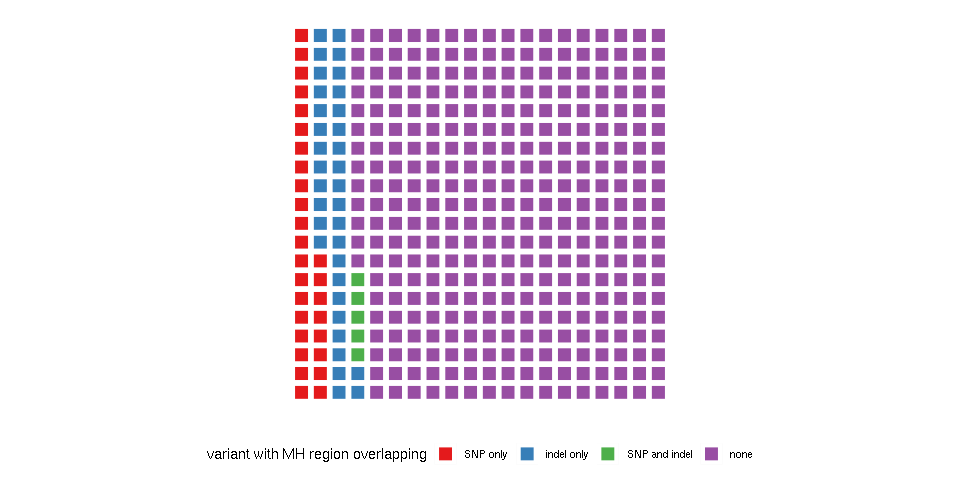
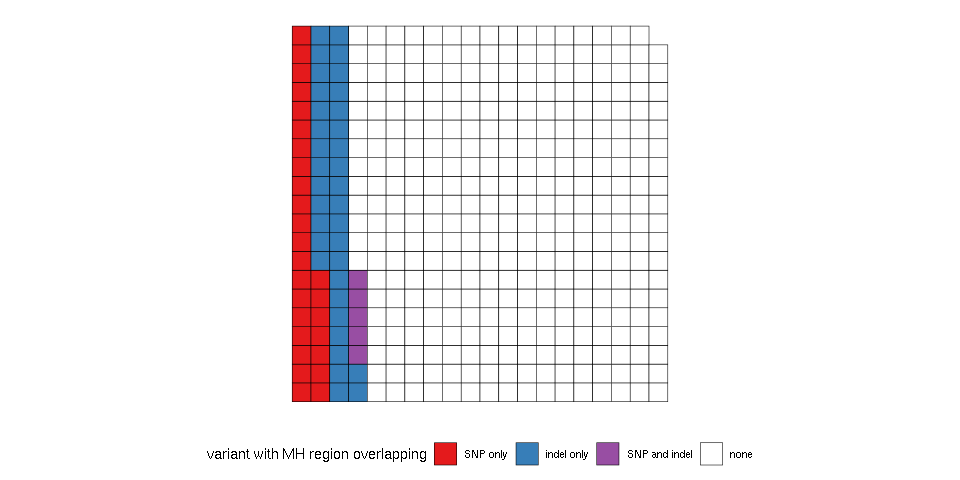
polish waffle graph

diff --git a/reports/SNPOverlap.md b/reports/SNPOverlap.md
@@ -11,6 +11,7 @@ library(knitr)
 
 library(ggplot2)
 library(ggwaffle)
+library(RColorBrewer)
 library(GenomicRanges)
 
 ## Read the first row (headers) to remind us the order of each column
@@ -70,7 +71,7 @@ snps = subset(snps, !(RS %in% paste0("rs", var.s$RS)))
 dim(snps)
 ```
 
-    ## [1] 15174509        6
+    ## [1] 15174553        6
 
 ``` r
 snps = makeGRangesFromDataFrame(snps, keep.extra.columns = TRUE)
@@ -96,10 +97,10 @@ fl.id %>% group_by(classf) %>% summarize(n = n()) %>% ungroup %>% mutate(prop = 
 
 | classf        |       prop|
 |:--------------|----------:|
-| SNP only      |  0.0699637|
-| indel only    |  0.0851986|
-| SNP and indel |  0.0129693|
-| none          |  0.8318684|
+| SNP only      |  0.0677609|
+| indel only    |  0.0885415|
+| SNP and indel |  0.0129050|
+| none          |  0.8307926|
 
 ``` r
 prop.ss = 400/nrow(fl.id)
@@ -107,10 +108,12 @@ waffle_data <- fl.id %>% group_by(classf) %>% sample_n(round(n() * prop.ss)) %>%
     waffle_iron(aes_d(group = classf), rows = 20) %>% mutate(group = factor(group, 
     levels = 1:4, labels = c("SNP only", "indel only", "SNP and indel", "none")))
 
-ggplot(waffle_data, aes(x, y, fill = group)) + geom_waffle() + coord_equal() + 
-    scale_fill_brewer(name = "variant with MH region overlapping", palette = "Set1") + 
-    theme_waffle() + theme(axis.title.x = element_blank(), axis.title.y = element_blank(), 
-    legend.position = "bottom")
+w.pal = c(brewer.pal(8, "Set1")[c(1, 2, 4)], "white")
+
+ggplot(waffle_data, aes(x, y, fill = group)) + geom_waffle(color = "black", 
+    size = 0.2) + coord_equal() + scale_fill_manual(name = "variant with MH region overlapping", 
+    values = w.pal) + theme_waffle() + theme(axis.title.x = element_blank(), 
+    axis.title.y = element_blank(), legend.position = "bottom")
 ```
 
 ![](SNPOverlap_files/figure-markdown_github/ol-1.png)
